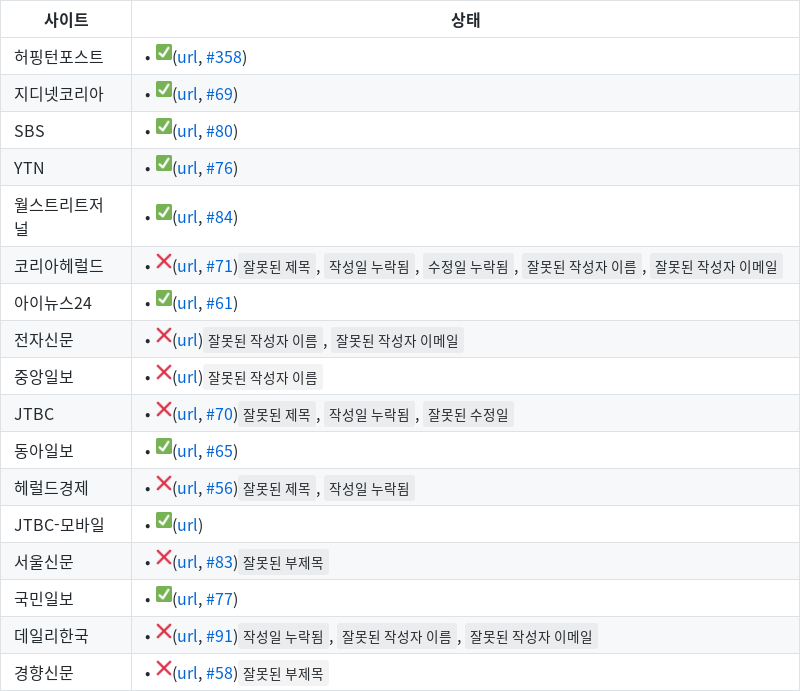
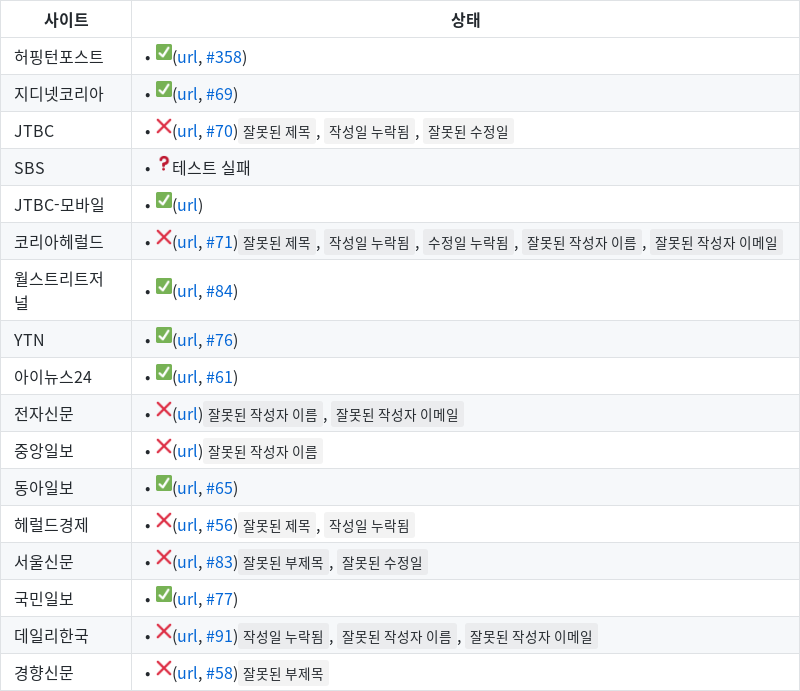
Wed Jul  1 00:31:35 UTC 2020

diff --git a/health-check.md b/health-check.md
@@ -2,18 +2,18 @@
 |------|-------|
 | 허핑턴포스트 | • ✅([url](https://www.huffingtonpost.kr/entry/story_kr_5d36a558e4b004b6adb5029c?9e4), [#358](https://github.com/disjukr/just-news/issues/#358)) |
 | 지디넷코리아 | • ✅([url](http://www.zdnet.co.kr/view/?no=20141104074223), [#69](https://github.com/disjukr/just-news/issues/#69)) |
-| SBS | • ✅([url](https://news.sbs.co.kr/news/endPage.do?news_id=N1002697236), [#80](https://github.com/disjukr/just-news/issues/#80)) |
-| YTN | • ✅([url](https://www.ytn.co.kr/_ln/0103_201411190800481989), [#76](https://github.com/disjukr/just-news/issues/#76)) |
-| 월스트리트저널 | • ✅([url](https://realtime.wsj.com/korea/2014/10/13/%EB%B0%95%EC%9B%90%EC%88%9C-%EC%84%9C%EC%9A%B8%EC%8B%9C%EC%9E%A5-%EB%AF%B8%EA%B5%AD-%EC%96%B8%EB%A1%A0%EC%97%90-%EB%8F%99%EC%84%B1%EA%B2%B0%ED%98%BC-%EC%A7%80%EC%A7%80-%EB%B0%9C%EC%96%B8/), [#84](https://github.com/disjukr/just-news/issues/#84)) |
+| JTBC | • ❌([url](http://news.jtbc.joins.com/article/article.aspx?news_id=NB10639468), [#70](https://github.com/disjukr/just-news/issues/#70))`잘못된 제목`, `작성일 누락됨`, `잘못된 수정일` |
+| SBS | • ❓테스트 실패 |
+| JTBC-모바일 | • ✅([url](http://mnews.jtbc.joins.com/News/Article.aspx?news_id=NB11866214)) |
 | 코리아헤럴드 | • ❌([url](http://khnews.kheraldm.com/view.php?ud=20141111001137&md=20141111180830_BK&kr=1), [#71](https://github.com/disjukr/just-news/issues/#71))`잘못된 제목`, `작성일 누락됨`, `수정일 누락됨`, `잘못된 작성자 이름`, `잘못된 작성자 이메일` |
+| 월스트리트저널 | • ✅([url](https://realtime.wsj.com/korea/2014/10/13/%EB%B0%95%EC%9B%90%EC%88%9C-%EC%84%9C%EC%9A%B8%EC%8B%9C%EC%9E%A5-%EB%AF%B8%EA%B5%AD-%EC%96%B8%EB%A1%A0%EC%97%90-%EB%8F%99%EC%84%B1%EA%B2%B0%ED%98%BC-%EC%A7%80%EC%A7%80-%EB%B0%9C%EC%96%B8/), [#84](https://github.com/disjukr/just-news/issues/#84)) |
+| YTN | • ✅([url](https://www.ytn.co.kr/_ln/0103_201411190800481989), [#76](https://github.com/disjukr/just-news/issues/#76)) |
 | 아이뉴스24 | • ✅([url](http://www.inews24.com/view/860573), [#61](https://github.com/disjukr/just-news/issues/#61)) |
 | 전자신문 | • ❌([url](http://www.etnews.com/20191031000370?mc=ns_003_00006))`잘못된 작성자 이름`, `잘못된 작성자 이메일` |
 | 중앙일보 | • ❌([url](https://news.joins.com/article/23621286))`잘못된 작성자 이름` |
-| JTBC | • ❌([url](http://news.jtbc.joins.com/article/article.aspx?news_id=NB10639468), [#70](https://github.com/disjukr/just-news/issues/#70))`잘못된 제목`, `작성일 누락됨`, `잘못된 수정일` |
 | 동아일보 | • ✅([url](http://news.donga.com/3/03/20141107/67723014/1), [#65](https://github.com/disjukr/just-news/issues/#65)) |
 | 헤럴드경제 | • ❌([url](http://news.heraldcorp.com/view.php?ud=20141023000202&md=20141023091209_BK), [#56](https://github.com/disjukr/just-news/issues/#56))`잘못된 제목`, `작성일 누락됨` |
-| JTBC-모바일 | • ✅([url](http://mnews.jtbc.joins.com/News/Article.aspx?news_id=NB11866214)) |
-| 서울신문 | • ❌([url](http://seoul.co.kr/news/newsView.php?id=20141204500025), [#83](https://github.com/disjukr/just-news/issues/#83))`잘못된 부제목` |
+| 서울신문 | • ❌([url](http://seoul.co.kr/news/newsView.php?id=20141204500025), [#83](https://github.com/disjukr/just-news/issues/#83))`잘못된 부제목`, `잘못된 수정일` |
 | 국민일보 | • ✅([url](http://news.kmib.co.kr/article/view.asp?arcid=0008864720&code=61121111), [#77](https://github.com/disjukr/just-news/issues/#77)) |
 | 데일리한국 | • ❌([url](http://daily.hankooki.com/lpage/politics/201412/dh20141219103740137430.htm), [#91](https://github.com/disjukr/just-news/issues/#91))`작성일 누락됨`, `잘못된 작성자 이름`, `잘못된 작성자 이메일` |
 | 경향신문 | • ❌([url](http://biz.khan.co.kr/khan_art_view.html?artid=201410311921301&code=920100&med=khan), [#58](https://github.com/disjukr/just-news/issues/#58))`잘못된 부제목` |
